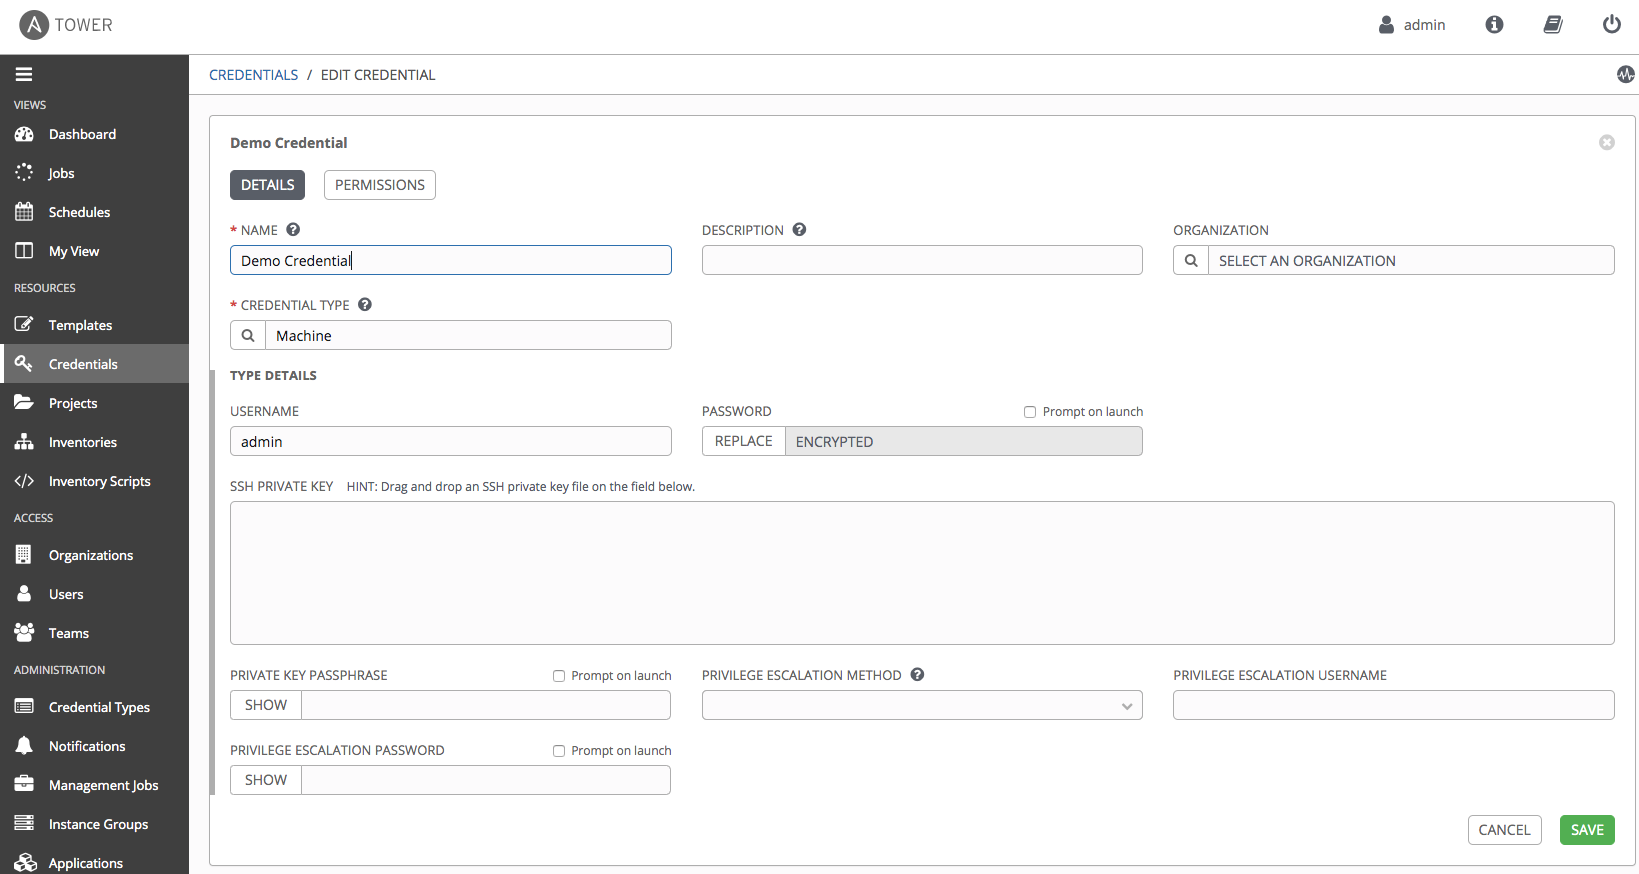
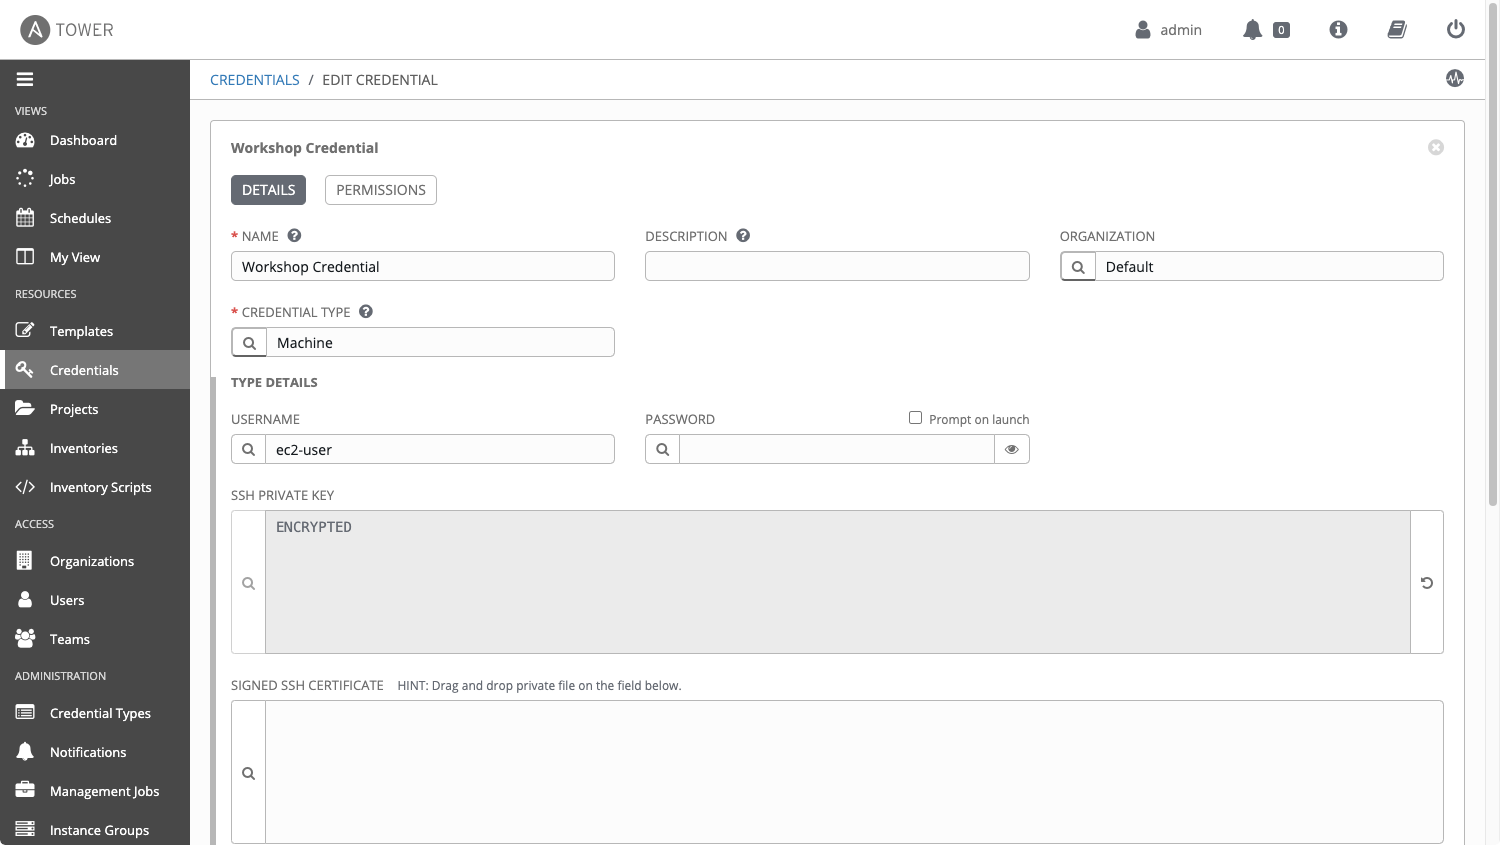
fixing f5workshop
this should fix issue-> https://github.com/ansible/workshops/issues/913

diff --git a/exercises/ansible_f5/4.0-explore-tower/README.md b/exercises/ansible_f5/4.0-explore-tower/README.md
@@ -17,19 +17,19 @@
 
 # Objective
 
-Ansible Tower is a web-based solution than runs on top of Ansible that provides additional functionality while simplifying the operations of the software.
+Ansible Tower is a web-based solution where you can centralize and control your IT infrastructure with a visual dashboard, role-based access control, job scheduling, integrated notifications and graphical inventory management. Ansible Tower includes a REST API and CLI in addition to the web UI.
 
 In this lab, you will log in and perform some basic configurations that will be used in later labs to perform automation tasks against your F5 BIG-IP device.  This exercise will cover:
 - Determining the Ansible version running on the control node
 - Locating and understanding:
-  - Ansible Tower **Inventories**
-  - Ansible Tower **Credentials**
-  - Ansible Tower **Projects**
-  - Ansible Tower **Templates**
+  - **Inventories**
+  - **Credentials**
+  - **Projects**
+  - **Templates**
 
 # Guide
 
-## Step 1: Login to Ansible Tower
+## Step 1: Login to the Ansible Automation Platform
 
 Open up your web browser and type in the Ansible control node's DNS name
 
@@ -57,7 +57,7 @@ After logging in the Job Dashboard will be the default view as shown below.
     Take note that both the Ansible Tower version and the Ansible Engine version are provided here.
 
 
-## Step 2: Examine the Ansible Tower Inventory
+## Step 2: Examine the Inventory
 
 An inventory is required for Red Hat Ansible Tower to be able to run jobs.  An inventory is a collection of hosts against which jobs may be launched, the same as an Ansible inventory file. In addition, Red Hat Ansible Tower can make use of an existing configuration management data base (cmdb) such as ServiceNow or Infoblox DDI.
 
@@ -67,17 +67,17 @@ An inventory is required for Red Hat Ansible Tower to be able to run jobs.  An i
 
     ![Inventories Button](images/inventories.png)
 
-2. Under **Inventories** there will be inventories.  Click on the `Demo Inventory`.  
+2. Under **Inventories**,  Click on the `Workshop Inventory`.  
 
-3. Under the `Demo Inventory`, click the **HOSTS** button at the top.  There will be hosts configured here.  Click on one of the devices.
+3. Under the `Workshop Inventory`, click the **HOSTS** button at the top.  There will be hosts configured here.  Click on one of the devices.
 
-4. Click on the `Demo Inventory` link at the top of the page to return the top level menu.
+4. Click on the `Workshop Inventory` link at the top of the page to return the top level menu.
 
 5. Click on **GROUPS**.  This is where you can configure Group of hosts
        ![Inventory](images/inventory.png)
 
 
-## Step 3: Examine the Ansible Tower Workshop Project
+## Step 3: Examine the Workshop Project
 
 A project is how Ansible Playbooks are imported into Red Hat Ansible Tower.  You can manage playbooks and playbook directories by either placing them manually under the Project Base Path on your Ansible Tower server, or by placing your playbooks into a source code management (SCM) system supported by Tower, including Git, Subversion, and Mercurial etc.
 
@@ -87,18 +87,18 @@ A project is how Ansible Playbooks are imported into Red Hat Ansible Tower.  You
 
     ![projects link](images/projects.png)
 
-2. Under **PROJECTS** there will be one pre-configured projects, or `Demo Project`.  Click on the `Demo Project`.  
+2. Under **PROJECTS** there will be one pre-configured projects, or `Ansible official demo project`.  Click on the `Ansible official demo project`.  
 
     Note that `Git` is listed for this project.  This means this project is using `Git` for SCM.
 
-3. Under the `Demo Project` click the **SCM TYPE** drop down menu
+3. Under the `Ansible official demo project` click the **SCM TYPE** drop down menu
 
     Note that Git, Mercurial and Subversion are some of the choices.  Return the choice to Git so that the Project continues to function correctly.
 ![project link](images/project.png)
 
-## Step 4: Examine the Ansible Tower Workshop Credential
+## Step 4: Examine the Workshop Credential
 
-Credentials are utilized by Tower for authentication when launching **Jobs** against machines, synchronizing with inventory sources, and importing project content from a version control system.  For the workshop we need a credential to authenticate to the network devices.
+Credentials are utilized by the Red Hat Ansible Automation Platform for authentication when launching **Jobs** against machines, synchronizing with inventory sources, and importing project content from a version control system.  For the workshop we need a credential to authenticate to the network devices.
 
 > For more information on Credentials in Tower please [refer to the documentation](https://docs.ansible.com/ansible-tower/latest/html/userguide/credentials.html).
 
@@ -106,17 +106,17 @@ Credentials are utilized by Tower for authentication when launching **Jobs** aga
 
     ![credentials link](images/credentials.png)
 
-2. Under **CREDENTIALS** there will be one pre-configured credential, or `Demo Credential`.  Click on the `Demo Credential`.  
+2. Under **CREDENTIALS** there will be two pre-configured credentials, `Workshop Credential` and `Tower Credential`.  Click on the `Workshop Credential`.  
 
-3. Under the `Demo Credential` examine the following:
+3. Under the `Workshop Credential` examine the following:
     - The **CREDENTIAL TYPE** is a **Machine** credential.  
     - The **USERNAME** is set to `admin`.
-    - The **PASSWORD** is already configured, and is **ENCRYPTED**.
-    - The **SSH PRIVATE KEY** is blank.
+    - The **PASSWORD** is blank.  This credential is using a key instead of a password.
+    - The **SSH PRIVATE KEY** is already configured and is **ENCRYPTED**..
 
 ![credential](images/credential.png)
 
-## Step 5: Examine the Ansible Tower Template
+## Step 5: Examine the Job Template
 
 Templates or Job Templates define the parameters that will be used when executing an Ansible playbook. These parameters include previously mentioned features such as which project and inventory will be used.
 Additionally, parameters such as logging level and process forks allow for additional granularity on how playbooks are ran.
@@ -125,17 +125,16 @@ Additionally, parameters such as logging level and process forks allow for addit
 
     ![templates link](images/templates.png)
 
-2. Under **TEMPLATES** there will be one pre-configured credential, or `Demo Job Template`.  Click on the `Demo Job Template`.  
-
+2. Under **TEMPLATES** there will be at least one pre-configured Job Template, or `INFRASTRUCTURE / Turn off IBM Community Grid`.  Click on the `INFRASTRUCTURE / Turn off IBM Community Grid`.  
 
 ![template link](images/template.png)
 
 # Takeaways
 
-- Ansible Tower needs an inventory to execute Ansible Playbooks against.  This inventory is identical to what users would use with the command line only Ansible project.  
-- Ansible Tower can sync to existing SCM (source control management) including `GitHub`.  
-- Ansible Tower can store and encrypt credentials including SSH private keys and plain-text passwords.  Ansible Tower can also sync to existing credential storage systems such as CyberArk and Vault by HashiCorp
-- Ansible Job Templates define the parameters that will be used when executing an Ansible playbook
+- Ansible needs an inventory to execute Ansible Playbooks against.  This inventory is identical to what users would use with the command line only Ansible project.  
+- Ansible Automation Platform can sync to existing SCM (source control management) including `GitHub`.  
+- Ansible Automation Platform can store and encrypt credentials including SSH private keys and plain-text passwords.  Ansible Automation Platform can also sync to existing credential storage systems such as CyberArk and Vault by HashiCorp
+- Job Templates define the parameters that will be used when executing an Ansible playbook
 
 ---
 
@@ -143,6 +142,6 @@ Additionally, parameters such as logging level and process forks allow for addit
 
 You have completed lab exercise 4.0
 
-You have now examined all three components required to get started with Ansible Tower.  A credential, an inventory and a project.  In the next exercise we will create a job template.
+You have now examined all three components required to get started with Ansible Automation Platform.  A credential, an inventory and a project.  In the next exercise we will create a job template.
 
 [Click here to return to the Ansible Network Automation Workshop](../README.md)

diff --git a/exercises/ansible_f5/4.1-tower-job-template/README.md b/exercises/ansible_f5/4.1-tower-job-template/README.md
@@ -8,14 +8,13 @@
 - [Objective](#objective)
 - [Guide](#guide)
   - [Step 1: Create a Credential](#step-1-create-a-credential)
-  - [Step 2: Migrate an Inventory](#step-2-migrate-an-inventory)
-  - [Step 3: Create a Project](#step-3-create-a-project)
-  - [Step 4: Create a Job Template](#step-4-create-a-job-template)
-  - [Step 5: Launch the Job Template](#step-5-launch-the-job-template)
-  - [Step 6: Examine the Job Details View](#step-6-examine-the-job-details-view)
-  - [Step 7: Examine the Jobs window](#step-7-examine-the-jobs-window)
-  - [Step 8: Verify the BIG-IP Virtual Server was created](#step-8-verify-the-big-ip-virtual-server-was-created)
-  - [Step 9: Verifying the web servers](#step-9-verifying-the-web-servers)
+  - [Step 2: Create a Project](#step-3-create-a-project)
+  - [Step 3: Create a Job Template](#step-4-create-a-job-template)
+  - [Step 4: Launch the Job Template](#step-5-launch-the-job-template)
+  - [Step 5: Examine the Job Details View](#step-6-examine-the-job-details-view)
+  - [Step 6: Examine the Jobs window](#step-7-examine-the-jobs-window)
+  - [Step 7: Verify the BIG-IP Virtual Server was created](#step-8-verify-the-big-ip-virtual-server-was-created)
+  - [Step 8: Verifying the web servers](#step-9-verifying-the-web-servers)
 - [Takeaways](#takeaways)
 - [Complete](#complete)
 
@@ -46,35 +45,6 @@ To run an Ansible Playbook in Ansible Tower, we need to create a **Job Template*
 > Note: double check BIG-IP password provided by instructor defaults to ansible
 
   ![workshop credential link](images/ws_credential.png)
-
-## Step 2: Migrate an Inventory
-> **Note:** Here we just showcase one way to migrate an inventory file from the Ansible Tower control node (awx-manage)
-
-1. In the Ansible web UI, navigate to the `Inventories` section using the left navigation bar.
-
-2. Click on the green ![templates link](images/add.png) button to create an empty inventory `Workshop Inventory`.
-
-3. Login via SSH to your Ansible Tower control node (This is the Linux machine that has Ansible Tower installed on). The SSH credentials needed again here.
-4. Locate the flat-file that represents your Ansible inventory. Run the awx-manage inventory_import command like this
-   ```
-   cd ~/f5-workshop/lab_inventory/
-   sudo awx-manage inventory_import --source=hosts --inventory-name="Workshop Inventory"
-   ```
-5. Now when you login via the WebUI you will see all the hosts under the inventory `Workshop Inventory`
-  ![workshop inventory link](images/workshop_inventory1.png)
-
-6. In your newly imported inventory, click on the button labeled `GROUPS`.
-  ![workshop inventory group link](images/workshop_inventory_group1.png)
-
-7. Click on the Group `lb`, and then click on the button labeled `HOSTS`, you will see the host `f5`.
-The BIG-IP host `f5` in the inventory will have variables assigned to it with the respective values. Our playbook will refer to these inventory variables later in the lab.
-  ![host link](images/host.png)
-
-8. Click on `Workshop Inventory` on the top to return to inventory\
-   then click on the button labeled `GROUPS`. \
-   Click on the Group `web`, and then click on the button labeled `Hosts`. You will see two hosts: `node1` and `node2`. \
-   Click on `node1`, and you will see the variables assigned to it with the respective values.
-   ![host link](images/server1.png)
 
 ## Step 3: Create a Project
 1. In the Ansible web UI, navigate to the `Projects` section using the left navigation bar.
